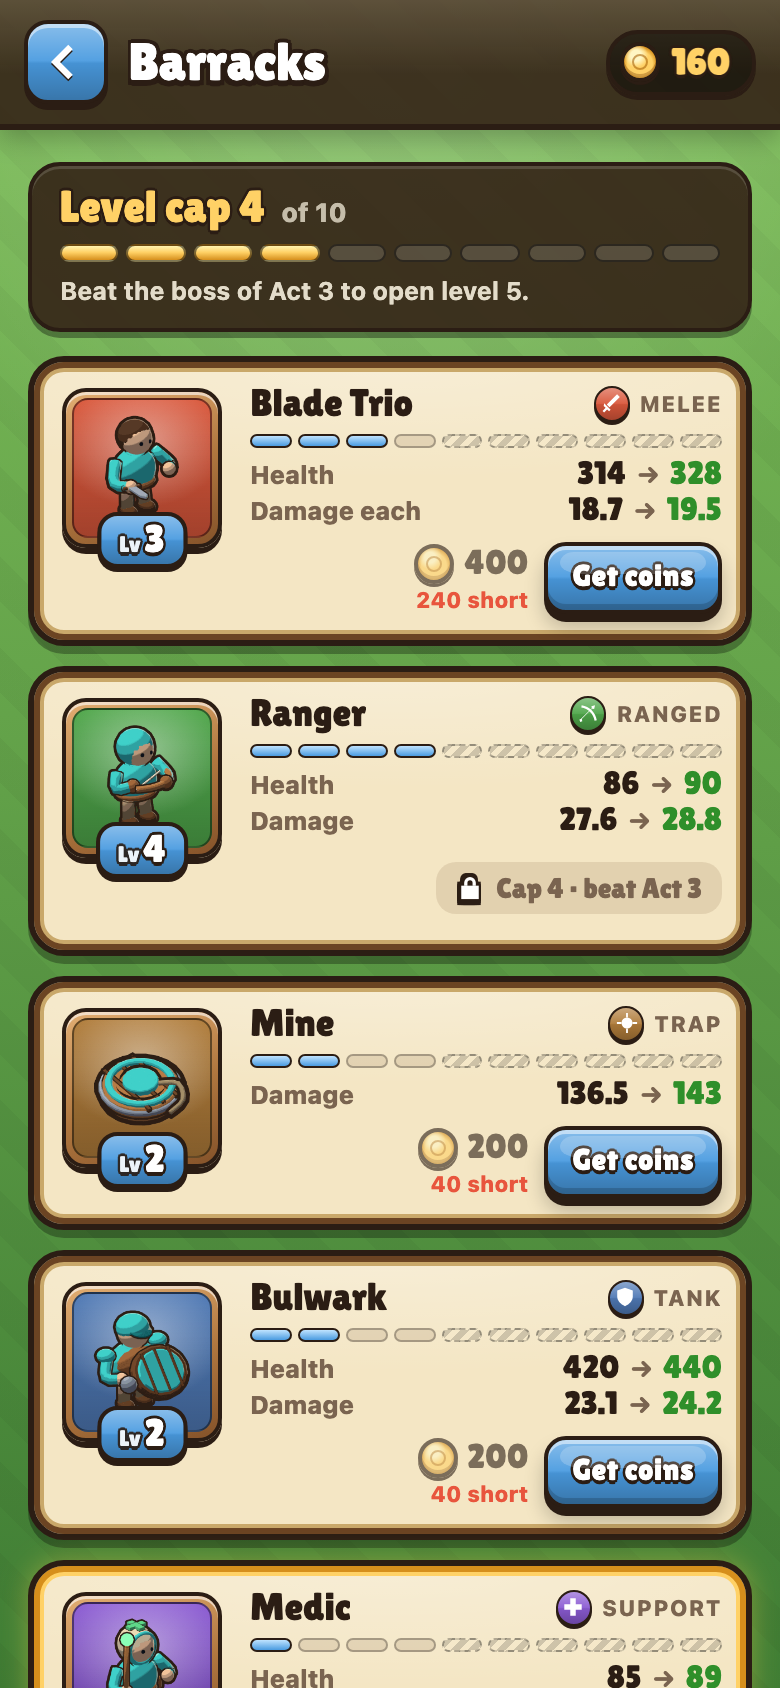
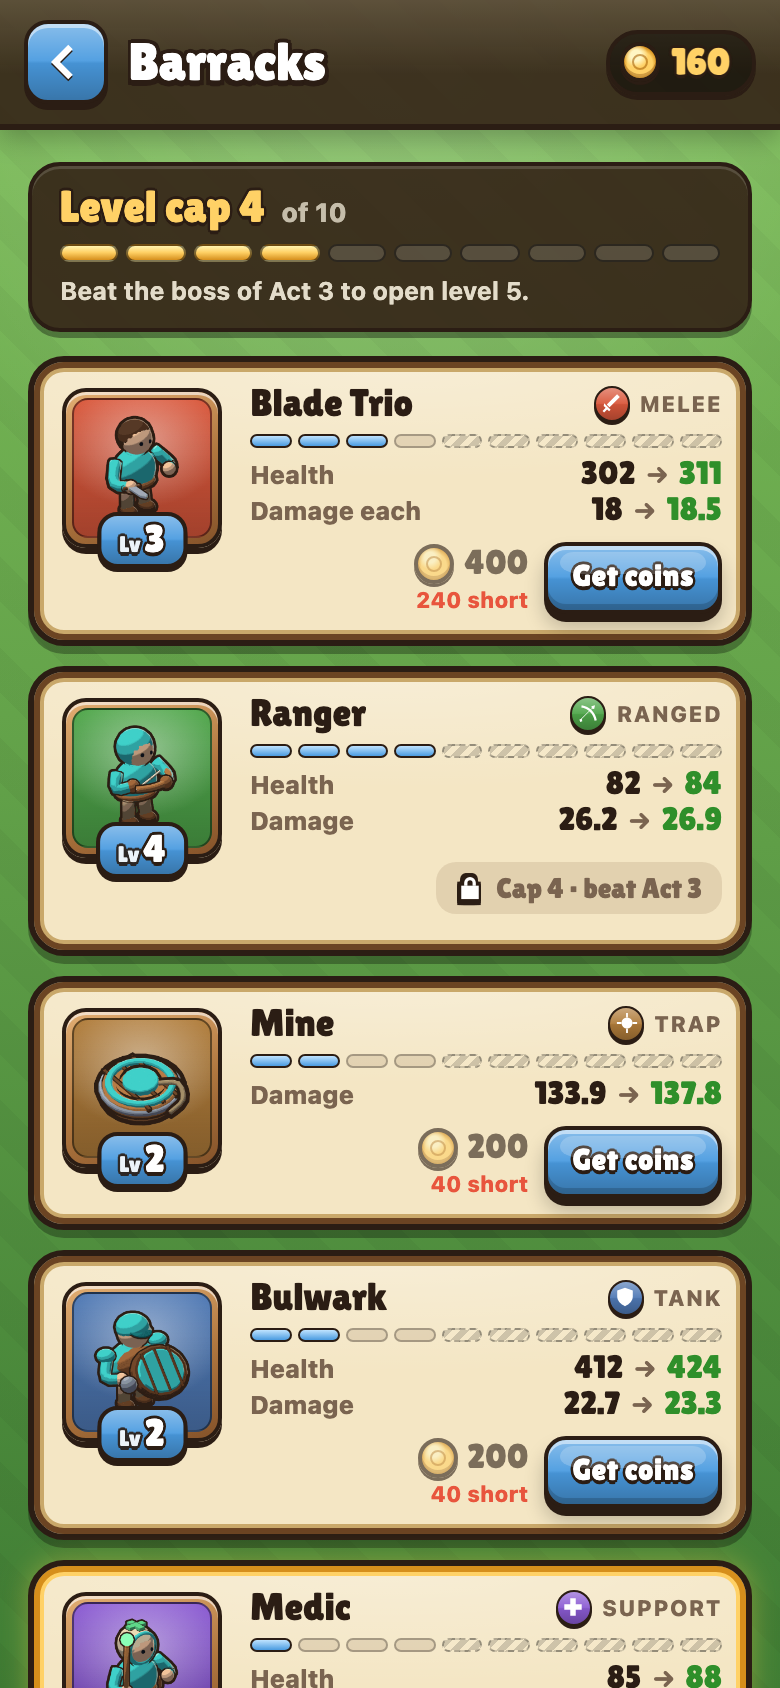
Re-shoot Barracks at +3% a level; coins.md draft

diff --git a/outputs/economy/coins.md b/outputs/economy/coins.md
@@ -15,8 +15,9 @@ None of these changed.
 ## What a level does
 
 - Every one of the 28 units has a level from 1 to 10. It's kept on the device and carries across matches.
-- Each level past 1 adds **5% health and 5% damage** (healing and wards scale with damage), so level 10 is +45%. Spawned bodies (mites, thralls, shardlings, turrets, decoys) use their maker's level.
-- Levels stack on top of the in-match ranks (Recruit to Ascended). A level 10 unit is +45%, while an in-match rank 2 upgrade is +65% health, so ranks still matter more than levels.
+- Each level past 1 adds **3% health and 3% damage** (healing and wards scale with damage), so level 10 is +27%. Spawned bodies (mites, thralls, shardlings, turrets, decoys) use their maker's level.
+- **Why 3% and not 5%:** I tried 5% first. In `npm run balance`, one level of gap between a whole army and the foe moved the strong AI's win rate by about 30 points (Act 3: 77% to 46%). A uniform edge compounds, because each unit both lasts longer and hits harder. At 3% the same curve gives the results below.
+- Levels stack on top of the in-match ranks (Recruit to Ascended). A level 10 unit is +27%, while an in-match rank 2 upgrade is +65% health, so ranks still matter more than levels.
 - At level 1 the multiplier is exactly 1, so a level 1 army is the game as it was. All 281 tests from before still pass unchanged, and there are new tests that check a level 1 battle matches the old one body for body.
 - Levels are part of the battle input for each side (`levels` in `BattleOptions` and `MatchConfig`), and the AI's planning sims see them too. The sim stays deterministic.
 
@@ -92,8 +93,8 @@ This models a free player (no gems bought) on a first pass. They clear an act in
 Campaign foes field their whole army at **one level below** what that six-unit player can afford. That allows for coins spread over more units and for units that join the roster late at level 1. Acts 1-2 stay at level 1, so the free tier plays exactly as tuned.
 
 - A player who keeps upgrading stays on or a little ahead of the curve, and the campaign plays as tuned.
-- A player who never upgrades meets foes up to +20% stronger by Act 8.
-- A player at the cap is up to +20% stronger than the foe. That's an edge, but it doesn't trivialise the campaign (see the balance results).
+- A player who never upgrades meets foes up to +12% stronger by Act 8.
+- A player at the cap (level 9 in Act 8) is about +11% stronger than the foe there (1.24 against 1.12).
 
 ## Time to max (free player, no gems)
 
